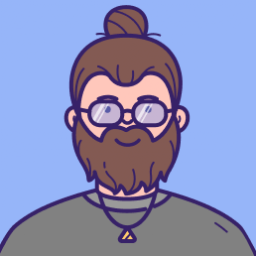
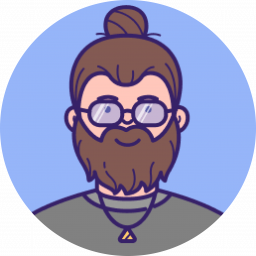
fix: change images to manifest

diff --git a/public/sw.js b/public/sw.js
@@ -1,1 +1,1 @@
-if(!self.define){let e,s={};const n=(n,a)=>(n=new URL(n+".js",a).href,s[n]||new Promise((s=>{if("document"in self){const e=document.createElement("script");e.src=n,e.onload=s,document.head.appendChild(e)}else e=n,importScripts(n),s()})).then((()=>{let e=s[n];if(!e)throw new Error(`Module ${n} didn’t register its module`);return e})));self.define=(a,i)=>{const c=e||("document"in self?document.currentScript.src:"")||location.href;if(s[c])return;let t={};const r=e=>n(e,c),o={module:{uri:c},exports:t,require:r};s[c]=Promise.all(a.map((e=>o[e]||r(e)))).then((e=>(i(...e),t)))}}define(["./workbox-5f5b08d6"],(function(e){"use strict";importScripts(),self.skipWaiting(),e.clientsClaim(),e.precacheAndRoute([{url:"/_next/static/2a9GfVDNh8cnSjr9-c8eI/_buildManifest.js",revision:"0cf127d45e93ee92a6241782e7cd29c3"},{url:"/_next/static/2a9GfVDNh8cnSjr9-c8eI/_middlewareManifest.js",revision:"fb2823d66b3e778e04a3f681d0d2fb19"},{url:"/_next/static/2a9GfVDNh8cnSjr9-c8eI/_ssgManifest.js",revision:"b6652df95db52feb4daf4eca35380933"},{url:"/_next/static/chunks/762-064bc3185bbd4c49.js",revision:"064bc3185bbd4c49"},{url:"/_next/static/chunks/framework-5f4595e5518b5600.js",revision:"5f4595e5518b5600"},{url:"/_next/static/chunks/main-de19382865b6a2ff.js",revision:"de19382865b6a2ff"},{url:"/_next/static/chunks/pages/404-3f30a0a9889040c3.js",revision:"3f30a0a9889040c3"},{url:"/_next/static/chunks/pages/_app-5b6e5b56899a539c.js",revision:"5b6e5b56899a539c"},{url:"/_next/static/chunks/pages/_error-2280fa386d040b66.js",revision:"2280fa386d040b66"},{url:"/_next/static/chunks/pages/index-3dea0cdc404ab775.js",revision:"3dea0cdc404ab775"},{url:"/_next/static/chunks/polyfills-5cd94c89d3acac5f.js",revision:"99442aec5788bccac9b2f0ead2afdd6b"},{url:"/_next/static/chunks/webpack-9b312e20a4e32339.js",revision:"9b312e20a4e32339"},{url:"/_next/static/css/9defdf965ff6c7b5.css",revision:"9defdf965ff6c7b5"},{url:"/icon-192x192.png",revision:"1b9a7cd7429fb3f2fd65b6bd9526b63f"},{url:"/icon-256x256.png",revision:"7faaa0ab9cdcef225939fca4486ae27e"},{url:"/icon-384x384.png",revision:"93fa02b540759745c9c030726228641b"},{url:"/icon-512x512.png",revision:"792e5e21bc5405cb158e3dff1cebee76"},{url:"/images/github.svg",revision:"3ece00d046910fc0763ccb69ab776a18"},{url:"/images/hamburger.svg",revision:"643de8d46a495659498860be2c1b38f6"},{url:"/images/icon.svg",revision:"6dd421a412865e1b04054eba6ba6c2b0"},{url:"/images/linkedin.svg",revision:"7b8c3c0aaefafc78de58c35457c320b5"},{url:"/images/profile.png",revision:"bda479d9920a4a9dc946ab03ff95d432"},{url:"/images/rocket.svg",revision:"ba9064e67ed0c5035867320a673f1b93"},{url:"/images/twitter.svg",revision:"7f772f700c1dccdef486e60e11c09376"},{url:"/manifest.json",revision:"9489b7f7dc061d0d28390e6ec30f8731"}],{ignoreURLParametersMatching:[]}),e.cleanupOutdatedCaches(),e.registerRoute("/",new e.NetworkFirst({cacheName:"start-url",plugins:[{cacheWillUpdate:async({request:e,response:s,event:n,state:a})=>s&&"opaqueredirect"===s.type?new Response(s.body,{status:200,statusText:"OK",headers:s.headers}):s}]}),"GET"),e.registerRoute(/^https:\/\/fonts\.(?:gstatic)\.com\/.*/i,new e.CacheFirst({cacheName:"google-fonts-webfonts",plugins:[new e.ExpirationPlugin({maxEntries:4,maxAgeSeconds:31536e3})]}),"GET"),e.registerRoute(/^https:\/\/fonts\.(?:googleapis)\.com\/.*/i,new e.StaleWhileRevalidate({cacheName:"google-fonts-stylesheets",plugins:[new e.ExpirationPlugin({maxEntries:4,maxAgeSeconds:604800})]}),"GET"),e.registerRoute(/\.(?:eot|otf|ttc|ttf|woff|woff2|font.css)$/i,new e.StaleWhileRevalidate({cacheName:"static-font-assets",plugins:[new e.ExpirationPlugin({maxEntries:4,maxAgeSeconds:604800})]}),"GET"),e.registerRoute(/\.(?:jpg|jpeg|gif|png|svg|ico|webp)$/i,new e.StaleWhileRevalidate({cacheName:"static-image-assets",plugins:[new e.ExpirationPlugin({maxEntries:64,maxAgeSeconds:86400})]}),"GET"),e.registerRoute(/\/_next\/image\?url=.+$/i,new e.StaleWhileRevalidate({cacheName:"next-image",plugins:[new e.ExpirationPlugin({maxEntries:64,maxAgeSeconds:86400})]}),"GET"),e.registerRoute(/\.(?:mp3|wav|ogg)$/i,new e.CacheFirst({cacheName:"static-audio-assets",plugins:[new e.RangeRequestsPlugin,new e.ExpirationPlugin({maxEntries:32,maxAgeSeconds:86400})]}),"GET"),e.registerRoute(/\.(?:mp4)$/i,new e.CacheFirst({cacheName:"static-video-assets",plugins:[new e.RangeRequestsPlugin,new e.ExpirationPlugin({maxEntries:32,maxAgeSeconds:86400})]}),"GET"),e.registerRoute(/\.(?:js)$/i,new e.StaleWhileRevalidate({cacheName:"static-js-assets",plugins:[new e.ExpirationPlugin({maxEntries:32,maxAgeSeconds:86400})]}),"GET"),e.registerRoute(/\.(?:css|less)$/i,new e.StaleWhileRevalidate({cacheName:"static-style-assets",plugins:[new e.ExpirationPlugin({maxEntries:32,maxAgeSeconds:86400})]}),"GET"),e.registerRoute(/\/_next\/data\/.+\/.+\.json$/i,new e.StaleWhileRevalidate({cacheName:"next-data",plugins:[new e.ExpirationPlugin({maxEntries:32,maxAgeSeconds:86400})]}),"GET"),e.registerRoute(/\.(?:json|xml|csv)$/i,new e.NetworkFirst({cacheName:"static-data-assets",plugins:[new e.ExpirationPlugin({maxEntries:32,maxAgeSeconds:86400})]}),"GET"),e.registerRoute((({url:e})=>{if(!(self.origin===e.origin))return!1;const s=e.pathname;return!s.startsWith("/api/auth/")&&!!s.startsWith("/api/")}),new e.NetworkFirst({cacheName:"apis",networkTimeoutSeconds:10,plugins:[new e.ExpirationPlugin({maxEntries:16,maxAgeSeconds:86400})]}),"GET"),e.registerRoute((({url:e})=>{if(!(self.origin===e.origin))return!1;return!e.pathname.startsWith("/api/")}),new e.NetworkFirst({cacheName:"others",networkTimeoutSeconds:10,plugins:[new e.ExpirationPlugin({maxEntries:32,maxAgeSeconds:86400})]}),"GET"),e.registerRoute((({url:e})=>!(self.origin===e.origin)),new e.NetworkFirst({cacheName:"cross-origin",networkTimeoutSeconds:10,plugins:[new e.ExpirationPlugin({maxEntries:32,maxAgeSeconds:3600})]}),"GET")}));
+if(!self.define){let e,s={};const n=(n,a)=>(n=new URL(n+".js",a).href,s[n]||new Promise((s=>{if("document"in self){const e=document.createElement("script");e.src=n,e.onload=s,document.head.appendChild(e)}else e=n,importScripts(n),s()})).then((()=>{let e=s[n];if(!e)throw new Error(`Module ${n} didn’t register its module`);return e})));self.define=(a,i)=>{const t=e||("document"in self?document.currentScript.src:"")||location.href;if(s[t])return;let c={};const r=e=>n(e,t),o={module:{uri:t},exports:c,require:r};s[t]=Promise.all(a.map((e=>o[e]||r(e)))).then((e=>(i(...e),c)))}}define(["./workbox-5f5b08d6"],(function(e){"use strict";importScripts(),self.skipWaiting(),e.clientsClaim(),e.precacheAndRoute([{url:"/_next/static/KeW8f_fm784dDZtK0D2bn/_buildManifest.js",revision:"e0c68d8d564ddff80bb41fc0521f1edc"},{url:"/_next/static/KeW8f_fm784dDZtK0D2bn/_middlewareManifest.js",revision:"fb2823d66b3e778e04a3f681d0d2fb19"},{url:"/_next/static/KeW8f_fm784dDZtK0D2bn/_ssgManifest.js",revision:"b6652df95db52feb4daf4eca35380933"},{url:"/_next/static/chunks/762-064bc3185bbd4c49.js",revision:"064bc3185bbd4c49"},{url:"/_next/static/chunks/framework-5f4595e5518b5600.js",revision:"5f4595e5518b5600"},{url:"/_next/static/chunks/main-de19382865b6a2ff.js",revision:"de19382865b6a2ff"},{url:"/_next/static/chunks/pages/404-af94117975b607ae.js",revision:"af94117975b607ae"},{url:"/_next/static/chunks/pages/_app-5b6e5b56899a539c.js",revision:"5b6e5b56899a539c"},{url:"/_next/static/chunks/pages/_error-2280fa386d040b66.js",revision:"2280fa386d040b66"},{url:"/_next/static/chunks/pages/index-9b185463a27e42a6.js",revision:"9b185463a27e42a6"},{url:"/_next/static/chunks/polyfills-5cd94c89d3acac5f.js",revision:"99442aec5788bccac9b2f0ead2afdd6b"},{url:"/_next/static/chunks/webpack-9b312e20a4e32339.js",revision:"9b312e20a4e32339"},{url:"/_next/static/css/9defdf965ff6c7b5.css",revision:"9defdf965ff6c7b5"},{url:"/icon-192x192.png",revision:"7cfaf08fe329ef95c69c5515d500822e"},{url:"/icon-256x256.png",revision:"d6997d6fbfbf6c4a83472bb3d2f297a2"},{url:"/icon-384x384.png",revision:"62017144c5ae3a820abf16c8f32cff3d"},{url:"/icon-512x512.png",revision:"ad7ab5cad9158045679bdc9d9080c745"},{url:"/images/github.svg",revision:"3ece00d046910fc0763ccb69ab776a18"},{url:"/images/hamburger.svg",revision:"643de8d46a495659498860be2c1b38f6"},{url:"/images/icon.svg",revision:"6dd421a412865e1b04054eba6ba6c2b0"},{url:"/images/linkedin.svg",revision:"7b8c3c0aaefafc78de58c35457c320b5"},{url:"/images/profile.png",revision:"bda479d9920a4a9dc946ab03ff95d432"},{url:"/images/rocket.svg",revision:"ba9064e67ed0c5035867320a673f1b93"},{url:"/images/twitter.svg",revision:"7f772f700c1dccdef486e60e11c09376"},{url:"/manifest.json",revision:"9489b7f7dc061d0d28390e6ec30f8731"}],{ignoreURLParametersMatching:[]}),e.cleanupOutdatedCaches(),e.registerRoute("/",new e.NetworkFirst({cacheName:"start-url",plugins:[{cacheWillUpdate:async({request:e,response:s,event:n,state:a})=>s&&"opaqueredirect"===s.type?new Response(s.body,{status:200,statusText:"OK",headers:s.headers}):s}]}),"GET"),e.registerRoute(/^https:\/\/fonts\.(?:gstatic)\.com\/.*/i,new e.CacheFirst({cacheName:"google-fonts-webfonts",plugins:[new e.ExpirationPlugin({maxEntries:4,maxAgeSeconds:31536e3})]}),"GET"),e.registerRoute(/^https:\/\/fonts\.(?:googleapis)\.com\/.*/i,new e.StaleWhileRevalidate({cacheName:"google-fonts-stylesheets",plugins:[new e.ExpirationPlugin({maxEntries:4,maxAgeSeconds:604800})]}),"GET"),e.registerRoute(/\.(?:eot|otf|ttc|ttf|woff|woff2|font.css)$/i,new e.StaleWhileRevalidate({cacheName:"static-font-assets",plugins:[new e.ExpirationPlugin({maxEntries:4,maxAgeSeconds:604800})]}),"GET"),e.registerRoute(/\.(?:jpg|jpeg|gif|png|svg|ico|webp)$/i,new e.StaleWhileRevalidate({cacheName:"static-image-assets",plugins:[new e.ExpirationPlugin({maxEntries:64,maxAgeSeconds:86400})]}),"GET"),e.registerRoute(/\/_next\/image\?url=.+$/i,new e.StaleWhileRevalidate({cacheName:"next-image",plugins:[new e.ExpirationPlugin({maxEntries:64,maxAgeSeconds:86400})]}),"GET"),e.registerRoute(/\.(?:mp3|wav|ogg)$/i,new e.CacheFirst({cacheName:"static-audio-assets",plugins:[new e.RangeRequestsPlugin,new e.ExpirationPlugin({maxEntries:32,maxAgeSeconds:86400})]}),"GET"),e.registerRoute(/\.(?:mp4)$/i,new e.CacheFirst({cacheName:"static-video-assets",plugins:[new e.RangeRequestsPlugin,new e.ExpirationPlugin({maxEntries:32,maxAgeSeconds:86400})]}),"GET"),e.registerRoute(/\.(?:js)$/i,new e.StaleWhileRevalidate({cacheName:"static-js-assets",plugins:[new e.ExpirationPlugin({maxEntries:32,maxAgeSeconds:86400})]}),"GET"),e.registerRoute(/\.(?:css|less)$/i,new e.StaleWhileRevalidate({cacheName:"static-style-assets",plugins:[new e.ExpirationPlugin({maxEntries:32,maxAgeSeconds:86400})]}),"GET"),e.registerRoute(/\/_next\/data\/.+\/.+\.json$/i,new e.StaleWhileRevalidate({cacheName:"next-data",plugins:[new e.ExpirationPlugin({maxEntries:32,maxAgeSeconds:86400})]}),"GET"),e.registerRoute(/\.(?:json|xml|csv)$/i,new e.NetworkFirst({cacheName:"static-data-assets",plugins:[new e.ExpirationPlugin({maxEntries:32,maxAgeSeconds:86400})]}),"GET"),e.registerRoute((({url:e})=>{if(!(self.origin===e.origin))return!1;const s=e.pathname;return!s.startsWith("/api/auth/")&&!!s.startsWith("/api/")}),new e.NetworkFirst({cacheName:"apis",networkTimeoutSeconds:10,plugins:[new e.ExpirationPlugin({maxEntries:16,maxAgeSeconds:86400})]}),"GET"),e.registerRoute((({url:e})=>{if(!(self.origin===e.origin))return!1;return!e.pathname.startsWith("/api/")}),new e.NetworkFirst({cacheName:"others",networkTimeoutSeconds:10,plugins:[new e.ExpirationPlugin({maxEntries:32,maxAgeSeconds:86400})]}),"GET"),e.registerRoute((({url:e})=>!(self.origin===e.origin)),new e.NetworkFirst({cacheName:"cross-origin",networkTimeoutSeconds:10,plugins:[new e.ExpirationPlugin({maxEntries:32,maxAgeSeconds:3600})]}),"GET")}));
